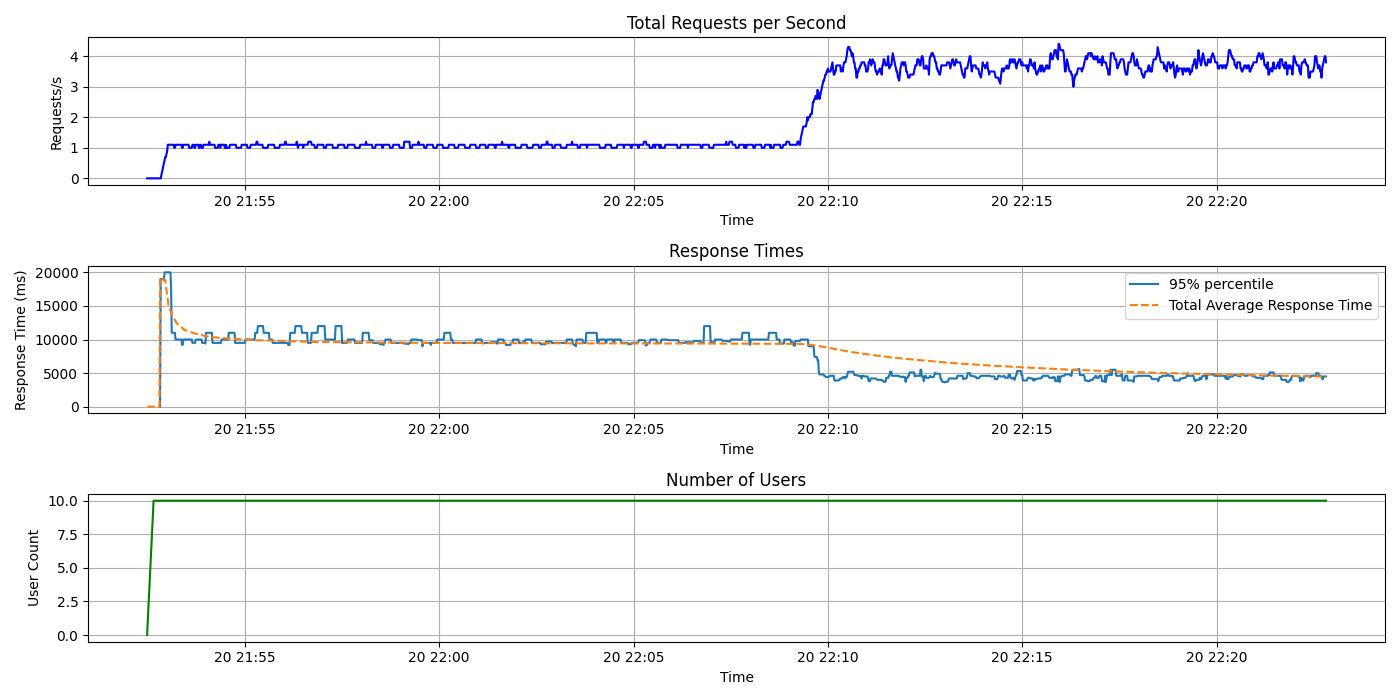
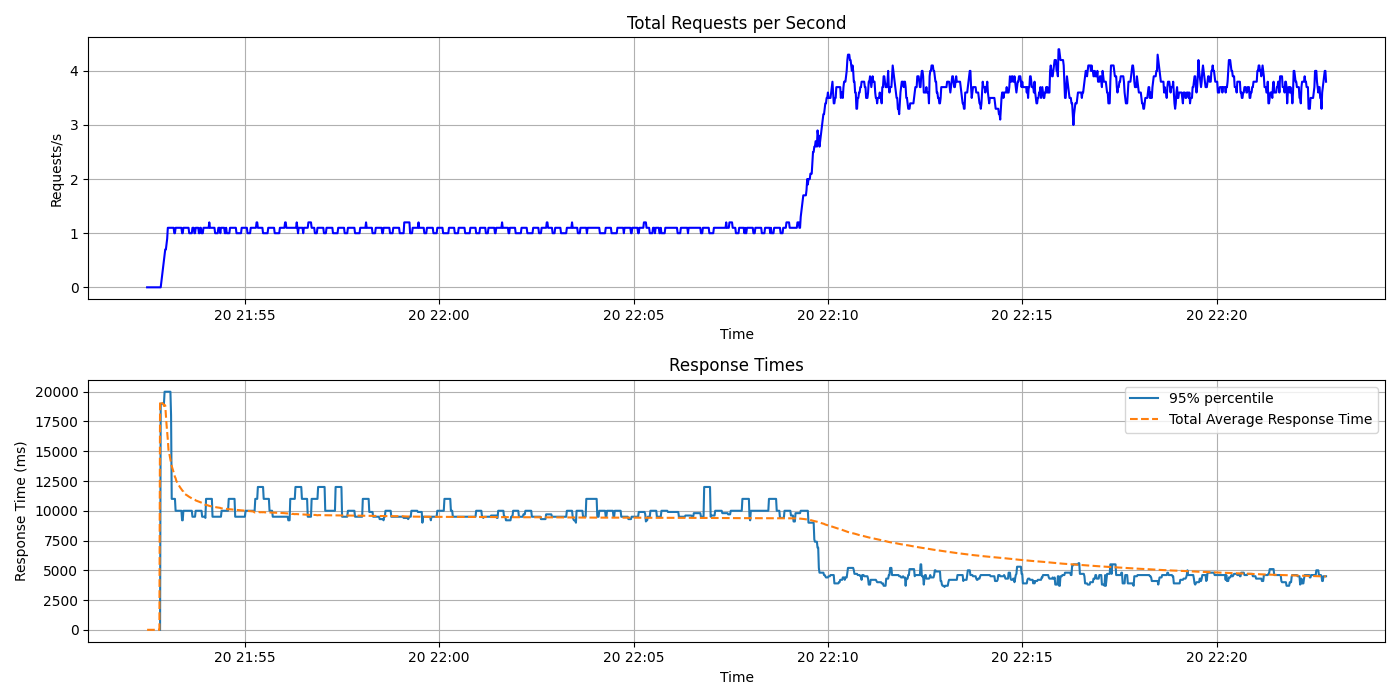
added final results

diff --git a/cloud/4_rep/results 10user/visualise.py b/cloud/4_rep/results 10user/visualise.py
@@ -15,7 +15,7 @@ def plot_performance_data(csv_file):
     
     # Plotting Total Requests per Second
     plt.figure(figsize=(14, 7))
-    plt.subplot(2, 1, 1)
+    plt.subplot(3, 1, 1)
     plt.plot(data.index, data['Requests/s'], label='Requests per second', color='blue')
     plt.title('Total Requests per Second')
     plt.xlabel('Time')
@@ -23,7 +23,7 @@ def plot_performance_data(csv_file):
     plt.grid(True)
     
     # Plotting Response Times
-    plt.subplot(2, 1, 2)
+    plt.subplot(3, 1, 2)
     percentiles = ['95%']
     for percentile in percentiles:
         if percentile in data.columns:
@@ -36,7 +36,15 @@ def plot_performance_data(csv_file):
     plt.ylabel('Response Time (ms)')
     plt.legend()
     plt.grid(True)
-
+    
+    # Plotting Number of Users
+    plt.subplot(3, 1, 3)
+    plt.plot(data.index, data['User Count'], label='Number of Users', color='green')
+    plt.title('Number of Users')
+    plt.xlabel('Time')
+    plt.ylabel('User Count')
+    plt.grid(True)
+    
     # Display the plots
     plt.tight_layout()
     plt.savefig('performance_data.png')

diff --git a/cloud/autoscaler/results-readystart/visualise.py b/cloud/autoscaler/results-readystart/visualise.py
@@ -15,7 +15,7 @@ def plot_performance_data(csv_file):
     
     # Plotting Total Requests per Second
     plt.figure(figsize=(14, 7))
-    plt.subplot(3, 1, 1)
+    plt.subplot(2, 1, 1)
     plt.plot(data.index, data['Requests/s'], label='Requests per second', color='blue')
     plt.title('Total Requests per Second')
     plt.xlabel('Time')
@@ -23,7 +23,7 @@ def plot_performance_data(csv_file):
     plt.grid(True)
     
     # Plotting Response Times
-    plt.subplot(3, 1, 2)
+    plt.subplot(2, 1, 2)
     percentiles = ['95%']
     for percentile in percentiles:
         if percentile in data.columns:
@@ -36,15 +36,7 @@ def plot_performance_data(csv_file):
     plt.ylabel('Response Time (ms)')
     plt.legend()
     plt.grid(True)
-    
-    # Plotting Number of Users
-    plt.subplot(3, 1, 3)
-    plt.plot(data.index, data['User Count'], label='Number of Users', color='green')
-    plt.title('Number of Users')
-    plt.xlabel('Time')
-    plt.ylabel('User Count')
-    plt.grid(True)
-    
+
     # Display the plots
     plt.tight_layout()
     plt.savefig('performance_data.png')

diff --git a/cloud/autoscaler/results-recover-start/visualise.py b/cloud/autoscaler/results-recover-start/visualise.py
@@ -15,7 +15,7 @@ def plot_performance_data(csv_file):
     
     # Plotting Total Requests per Second
     plt.figure(figsize=(14, 7))
-    plt.subplot(3, 1, 1)
+    plt.subplot(2, 1, 1)
     plt.plot(data.index, data['Requests/s'], label='Requests per second', color='blue')
     plt.title('Total Requests per Second')
     plt.xlabel('Time')
@@ -23,7 +23,7 @@ def plot_performance_data(csv_file):
     plt.grid(True)
     
     # Plotting Response Times
-    plt.subplot(3, 1, 2)
+    plt.subplot(2, 1, 2)
     percentiles = ['95%']
     for percentile in percentiles:
         if percentile in data.columns:
@@ -36,15 +36,7 @@ def plot_performance_data(csv_file):
     plt.ylabel('Response Time (ms)')
     plt.legend()
     plt.grid(True)
-    
-    # Plotting Number of Users
-    plt.subplot(3, 1, 3)
-    plt.plot(data.index, data['User Count'], label='Number of Users', color='green')
-    plt.title('Number of Users')
-    plt.xlabel('Time')
-    plt.ylabel('User Count')
-    plt.grid(True)
-    
+
     # Display the plots
     plt.tight_layout()
     plt.savefig('performance_data.png')
